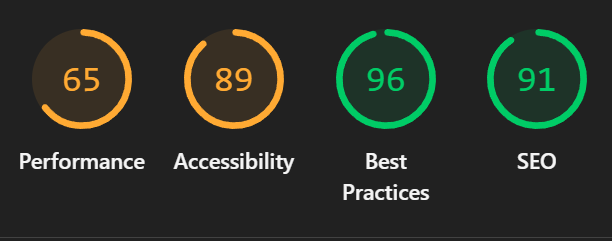
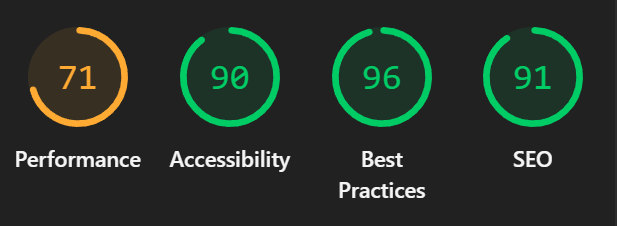
update changes.

diff --git a/TESTING.md b/TESTING.md
@@ -7,7 +7,7 @@
 ## Contents
 **[Automated Testing](#automated-testing)**
 * [W3C Validator](#wc3-html--css-validator)
-* [Python Validator](#wc3-html-validator)
+* [Python Validator](#python-validator)
 * [Django Testing](#django-testing)
 
 
@@ -33,16 +33,16 @@ I also attempted to use Django Testing , to build automated tests for my forms .
 
 ## Automated Testing
 ### WC3 HTML & CSS Validator
-The W3C Validator was used to check and validate the HTML and CSS for all pages of the website. Validation was performed by directly entering each page’s web link into the tool.
-The only errors came from the profile & update profile page which was stated as "IO Error: HTTP resource not retrievable. The HTTP status from the remote server was: 500" of which I researched but did not know how to fix.
-
+The W3C Validator was used to check and validate the HTML and CSS for all pages of the website. Validation was performed by directly entering each page’s web link into the tool.<br><br>
+The only errors came from the profile & update profile page which was stated as "IO Error: HTTP resource not retrievable. The HTTP status from the remote server was: 500" of which I researched but did not know how to fix.<br><br>
+For these two pages, I validated the rendered HTML by pasting the code into the validator. I did this by opening the page in the browser, right-clicking, and selecting 'View Page Source.' This allowed me to validate the HTML and bypass the server error.
 * [Home Page](https://validator.w3.org/nu/?doc=https%3A%2F%2Fstrength-stack-e65fe8f9116b.herokuapp.com%2F) - No errors or warnings.
 * [Index Page](https://validator.w3.org/nu/?doc=https%3A%2F%2Fstrength-stack-e65fe8f9116b.herokuapp.com%2F) - No errors or warnings.
 * [About Page](https://validator.w3.org/nu/?doc=https%3A%2F%2Fstrength-stack-e65fe8f9116b.herokuapp.com%2Fabout%2F) - No errors or warnings.
 * [Login Page](https://validator.w3.org/nu/?doc=https%3A%2F%2Fstrength-stack-e65fe8f9116b.herokuapp.com%2Faccounts%2Flogin%2F) - No errors or warnings.
 * [Registration Page](https://validator.w3.org/nu/?doc=https%3A%2F%2Fstrength-stack-e65fe8f9116b.herokuapp.com%2Faccounts%2Fsignup%2F) - No errors or warnings.
-* [Profile Page](https://validator.w3.org/nu/?doc=https%3A%2F%2Fstrength-stack-e65fe8f9116b.herokuapp.com%2Fusers%2Fprofile%2F) - 500 Internal Server Error
-* [Update Profile Page](https://validator.w3.org/nu/?doc=https%3A%2F%2Fstrength-stack-e65fe8f9116b.herokuapp.com%2Fusers%2Fupdate_profile%2F)-  500 Internal Server Error
+* [Profile Page](staticfiles/images/TESTING%20images/wc3%20-%20profile.png) - No errors or warnings (text-input).
+* [Update Profile Page](staticfiles/images/TESTING%20images/wc3%20-%20profileedit.png) - No errors or warnings (text-input).
 * [Dashboard](https://validator.w3.org/nu/?doc=https%3A%2F%2Fstrength-stack-e65fe8f9116b.herokuapp.com%2Fdashboard%2F) - No errors or warnings.
 * [Update Workout Page](https://validator.w3.org/nu/?doc=https%3A%2F%2Fstrength-stack-e65fe8f9116b.herokuapp.com%2Fupdate_workout%2F16%2F) -No errors or warnings.
 * [Create Workout Page](https://validator.w3.org/nu/?doc=https%3A%2F%2Fstrength-stack-e65fe8f9116b.herokuapp.com%2Fcreate%2F) - No errors or warnings.
@@ -50,13 +50,13 @@ The only errors came from the profile & update profile page which was stated as 
 * [Update Exercise Page](https://validator.w3.org/nu/?doc=https%3A%2F%2Fstrength-stack-e65fe8f9116b.herokuapp.com%2Fupdate_exercise%2F24%2F) - No errors or warnings.
 * [Create Exercise Page](https://validator.w3.org/nu/?doc=https%3A%2F%2Fstrength-stack-e65fe8f9116b.herokuapp.com%2Fadd_exercise%2F13%2F) - No errors or warnings.
 * [Logout Page](https://validator.w3.org/nu/?doc=https%3A%2F%2Fstrength-stack-e65fe8f9116b.herokuapp.com%2Faccounts%2Flogout%2F) - No errors or warnings.
-* [404 Page](https://validator.w3.org/nu/?doc=https%3A%2F%2Fstrength-stack-e65fe8f9116b.herokuapp.com%2Faccountsss%2Flogout%2F) - There are no other errors; the validator simply identified the 404 page.
-* [500 Page](https://validator.w3.org/nu/?doc=https%3A%2F%2Fstrength-stack-e65fe8f9116b.herokuapp.com%2F500%2F) - No errors or warnings.<br>
-* [CSS Validator](https://jigsaw.w3.org/css-validator/validator?uri=https%3A%2F%2Fstrength-stack-e65fe8f9116b.herokuapp.com%2F&profile=css3svg&usermedium=all&warning=1&vextwarning=&lang=en)
+* [404 Error Page](https://validator.w3.org/nu/?doc=https%3A%2F%2Fstrength-stack-e65fe8f9116b.herokuapp.com%2Faccountsss%2Flogout%2F) - There are no other errors; the validator simply identified the 404 page.
+* [500 Error Page](https://validator.w3.org/nu/?doc=https%3A%2F%2Fstrength-stack-e65fe8f9116b.herokuapp.com%2F500%2F) - No errors or warnings.<br>
+* [CSS Validator](https://jigsaw.w3.org/css-validator/validator?uri=https%3A%2F%2Fstrength-stack-e65fe8f9116b.herokuapp.com%2F&profile=css3svg&usermedium=all&warning=1&vextwarning=&lang=en) - No Error Found.
 
 ### Python Validator
 To validate all my Python code, I used the Code Institute [Python Linter](https://pep8ci.herokuapp.com/).<br>
-
+All was clear with no errors found.<br><br>
 **"workouts" App :**
 
 * [admin.py](staticfiles/images/TESTING%20images/admin-workouts-PL.png)
@@ -118,7 +118,7 @@ I used the WAVE Contrast Checker to verify if my webpages passed accessibility s
 
 The only factor affected was when elements on the page had filters applied - for example, the hero image on the homepage. Otherwise, all pages pass the color contrast checker, ensuring accessibility and readability for all users.
 
-## Performace Results 
+## Performance Results 
 I used Lighthouse on ChromeDevTools to test perfomance of my website on desktop - page by page.
 <br>The results are as shown below.
 
@@ -137,11 +137,11 @@ I used Lighthouse on ChromeDevTools to test perfomance of my website on desktop 
 * [Update Exercise Page](staticfiles/images/TESTING%20images/edit-ex-%20lighthouse.png)
 * [Create Exercise Page](staticfiles/images/TESTING%20images/create-ex-%20lighthouse.png)
 * [Logout Page](staticfiles/images/TESTING%20images/logout%20-%20lighthouse.png)
-* [404 Page](staticfiles/images/TESTING%20images/404-lighthouse.png)
-* [500 Page](staticfiles/images/TESTING%20images/500-lighthouse.png)
+* [404 Error Page](staticfiles/images/TESTING%20images/404-lighthouse.png)
+* [500 Error Page](staticfiles/images/TESTING%20images/500-lighthouse.png)
 
 **To summarise :**  
-Performance scores for the Index, Home, and 404 pages were some of the lowest at 73, the lowest being the 500 page at 65, which is below the desired level but passable.
+Performance scores for the Index, Home, and 404 pages were some of the lowest at 73, the lowest being the 500 page at 71, which is below the desired level but passable.
 I suspect that Chrome extensions may have impacted these results. 
 Aside from that, most performance metrics were in the green.
 
@@ -266,7 +266,7 @@ I tested the website across the following devices and browsers, and it displayed
 | Sign Out Button | Sign Out button redirects user back to the home page and signs them out of thier account| Sign Out button clicked | User signed out | Pass |
 
 # Solved & Known Bugs  
-
+## Solved Bugs
 | No | Bug | How I solved the issue |
 | :--- | :--- | :--- |
 | 1| When creating and logging into a new account, the dashboard isn’t reset and still displays the superuser’s information.| I referred to the discussion board below to determine the necessary changes. I needed to ensure that the information retrieved from the database matched the currently logged-in user. Adding **.get(user=request.user)** to the relevant views resolved the issue. <br><br>[Fix](https://stackoverflow.com/questions/64802240/django-how-to-only-display-content-made-by-a-user-to-that-same-user) |
